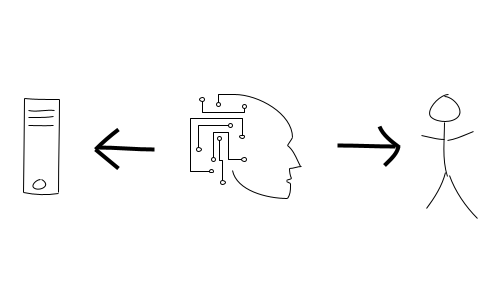
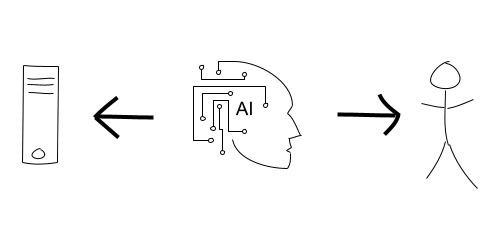
Updating the images for the AI article

diff --git a/_articles/why-ai-will-not-replace-developers.md b/_articles/why-ai-will-not-replace-developers.md
@@ -18,6 +18,8 @@ Humans are context-sensitive. We put the AI-generated artefact in a context like
 
 On the contrary, the source code does not have such a context. Refrain from getting confused by code execution context, like what variables are visible in the current moment of the execution. I mean a similar context that humans can work with. For the machine, every possible code variation has a distinct meaning. These code variations shift the code up and down on spectrums, such as performance, fault tolerance, security, maintainability, testability, usability and so forth, always resulting in a different application and meaning. Even though this spectrum approach is overly simplified compared to the real complexity of the software products, it might help to get my point.
 
+![](/assets/images/ai-spectrums-of-softwares.png)
+
 All software products have their unique functional and non-functional requirements. Let's take an example. We have a batch application that reads up some data from somewhere. Then it processes the data that might mean some transformation, enrichment, etc. Finally, it writes it out somewhere else. So far, it is a straightforward task. Today's AI can generate such an application in seconds. But is this a production-ready application?
 
 Here are only a few aspects to worry about. How much data should we be concerned about? Do we need to perform the processing in chunks instead of in one go? Do the input or output support transactions? Where are the transaction boundaries? How to deal with failures? What to do after a restart? How to handle overlapping executions of the same batch? What future features do we need to accommodate? Any data to be cached? How to test the application? On what infrastructure it needs to run? What enterprise standards and tech stack do we need to comply with?
